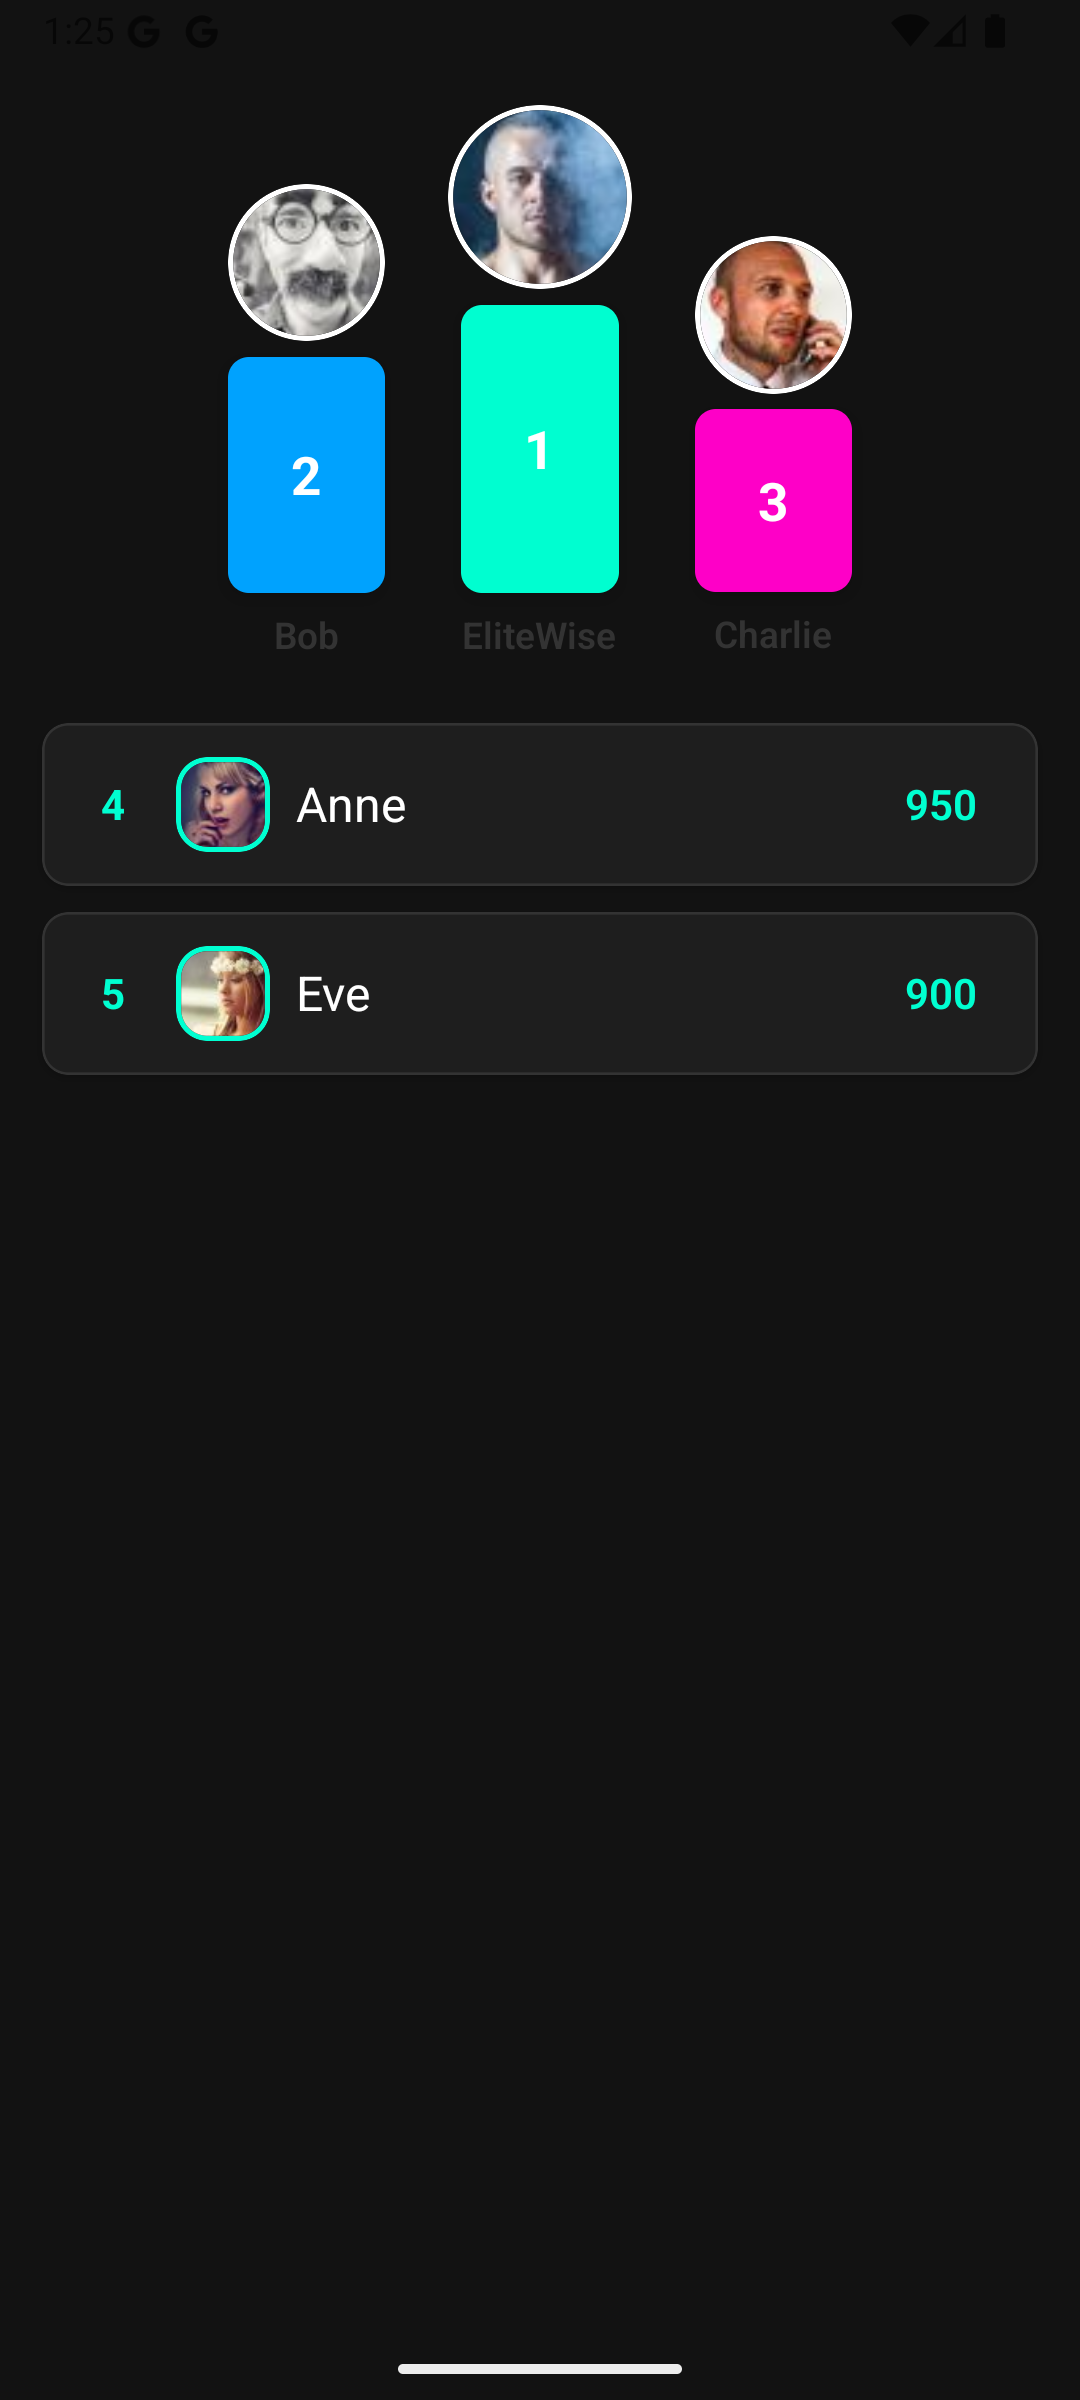
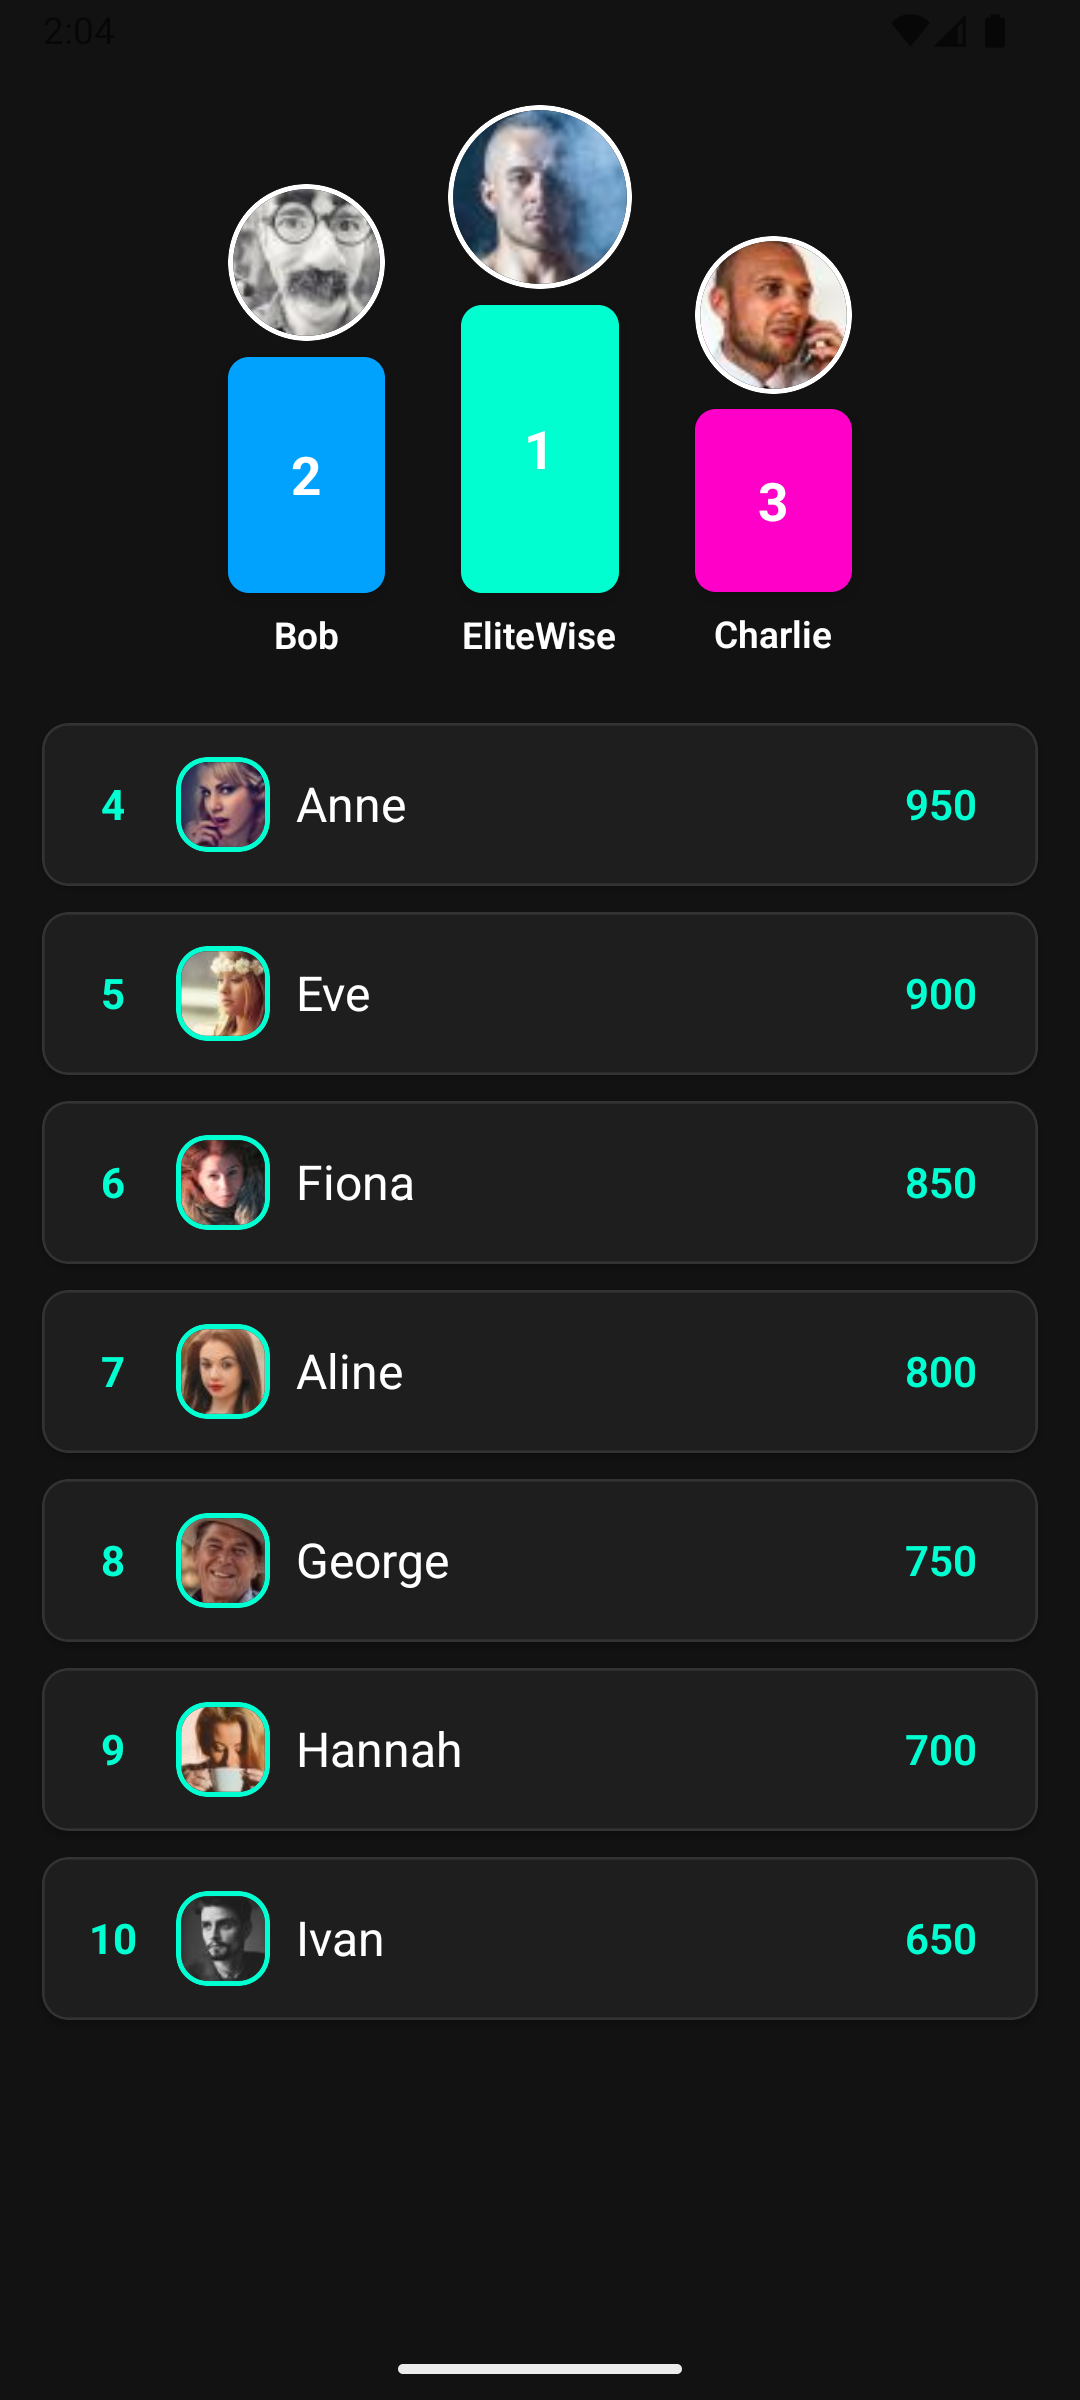
chore: update assets, readme & add clickable podiums

diff --git a/example/src/App.tsx b/example/src/App.tsx
@@ -1,12 +1,13 @@
 import { Leaderboard } from 'react-native-ranking-leaderboard';
 import type LeaderboardEntry from '../../src/leaderboard';
+import type { LeaderboardStyle } from '../../src/leaderboard';
 
 export default function App() {
   const data: LeaderboardEntry[] = [
     {
       rank: 1,
       name: 'EliteWise',
-      points: 100,
+      points: 1500,
       picture: 'https://i.pravatar.cc/60?img=3',
     },
     {
@@ -33,81 +34,113 @@ export default function App() {
       points: 900,
       picture: 'https://i.pravatar.cc/60?img=20',
     },
+    {
+      rank: 6,
+      name: 'Fiona',
+      points: 850,
+      picture: 'https://i.pravatar.cc/60?img=21',
+    },
+    {
+      rank: 7,
+      name: 'Aline',
+      points: 800,
+      picture: 'https://i.pravatar.cc/60?img=36',
+    },
+    {
+      rank: 8,
+      name: 'George',
+      points: 750,
+      picture: 'https://i.pravatar.cc/60?img=65',
+    },
+    {
+      rank: 9,
+      name: 'Hannah',
+      points: 700,
+      picture: 'https://i.pravatar.cc/60?img=24',
+    },
+    {
+      rank: 10,
+      name: 'Ivan',
+      points: 650,
+      picture: 'https://i.pravatar.cc/60?img=68',
+    },
   ];
+
+  const darkStyle = {
+    containerStyle: {
+      backgroundColor: '#121212',
+      paddingVertical: 40,
+    },
+    podiumStyle: {
+      first: { backgroundColor: '#00FFD1', height: 110 },
+      second: { backgroundColor: '#00A3FF', height: 90 },
+      third: { backgroundColor: '#FF00C8', height: 70 },
+    },
+    itemStyle: {
+      backgroundColor: '#1e1e1e',
+      borderColor: '#333',
+      borderWidth: 1,
+    },
+    rankStyle: {
+      color: '#00FFD1',
+      fontWeight: 'bold',
+      fontSize: 16,
+    },
+    usernameStyle: {
+      color: '#ffffff',
+      fontSize: 18,
+    },
+    pointStyle: {
+      color: '#00FFD1',
+      fontSize: 16,
+      fontWeight: '600',
+    },
+    avatarStyle: {
+      borderRadius: 12,
+      borderWidth: 2,
+      borderColor: '#00FFD1',
+    },
+    profileStyle: {
+      overlayStyle: {
+        backgroundColor: 'rgba(0, 0, 0, 0.85)',
+      },
+      modalStyle: {
+        backgroundColor: '#222',
+        borderRadius: 30,
+        padding: 32,
+      },
+      avatarStyle: {
+        borderRadius: 50,
+        borderWidth: 2,
+        borderColor: '#00FFD1',
+      },
+      nameStyle: {
+        color: '#ffffff',
+        fontSize: 22,
+      },
+      pointsStyle: {
+        color: '#00FFD1',
+        fontSize: 18,
+      },
+      closeButtonTextStyle: {
+        color: '#FF4D4D',
+        fontSize: 28,
+      },
+      closeButtonStyle: {
+        position: 'absolute',
+        top: 20,
+        right: 20,
+      },
+      pointsLabel: 'Score',
+      closeLabel: '×',
+    },
+  };
 
   return (
     <Leaderboard
       entries={data}
       showPodium={true}
-      style={{
-        containerStyle: {
-          backgroundColor: '#121212',
-          paddingVertical: 40,
-        },
-        podiumStyle: {
-          first: { backgroundColor: '#00FFD1', height: 110 },
-          second: { backgroundColor: '#00A3FF', height: 90 },
-          third: { backgroundColor: '#FF00C8', height: 70 },
-        },
-        itemStyle: {
-          backgroundColor: '#1e1e1e',
-          borderColor: '#333',
-          borderWidth: 1,
-        },
-        rankStyle: {
-          color: '#00FFD1',
-          fontWeight: 'bold',
-          fontSize: 16,
-        },
-        usernameStyle: {
-          color: '#ffffff',
-          fontSize: 18,
-        },
-        pointStyle: {
-          color: '#00FFD1',
-          fontSize: 16,
-          fontWeight: '600',
-        },
-        avatarStyle: {
-          borderRadius: 12,
-          borderWidth: 2,
-          borderColor: '#00FFD1',
-        },
-        profileStyle: {
-          overlayStyle: {
-            backgroundColor: 'rgba(0, 0, 0, 0.85)',
-          },
-          modalStyle: {
-            backgroundColor: '#222',
-            borderRadius: 30,
-            padding: 32,
-          },
-          avatarStyle: {
-            borderRadius: 50,
-            borderWidth: 2,
-            borderColor: '#00FFD1',
-          },
-          nameStyle: {
-            color: '#ffffff',
-            fontSize: 22,
-          },
-          pointsStyle: {
-            color: '#00FFD1',
-            fontSize: 18,
-          },
-          closeButtonTextStyle: {
-            color: '#FF4D4D',
-            fontSize: 28,
-          },
-          closeButtonStyle: {
-            position: 'absolute',
-            top: 20,
-            right: 20,
-          },
-          pointsLabel: 'Score',
-          closeLabel: '×',
-        },
-      }}
+      style={darkStyle as LeaderboardStyle}
     />
   );
 }

diff --git a/src/index.tsx b/src/index.tsx
@@ -47,7 +47,13 @@ export function Leaderboard({
         <View style={styles.podiumContainer}>
           {/* 2nd place */}
           {entries[1] && (
-            <View style={styles.podiumColumn}>
+            <TouchableOpacity
+              style={styles.podiumColumn}
+              onPress={() => {
+                setSelectedUser(entries[1] ?? null);
+                setModalVisible(true);
+              }}
+            >
               {entries[1]?.picture && (
                 <Image
                   source={{ uri: entries[1]?.picture || '' }}
@@ -64,12 +70,18 @@ export function Leaderboard({
                 <Text style={styles.podiumRank}>2</Text>
               </View>
               <Text style={styles.playerName}>{entries[1]?.name}</Text>
-            </View>
+            </TouchableOpacity>
           )}
 
           {/* 1st place */}
           {entries[0] && (
-            <View style={styles.podiumColumn}>
+            <TouchableOpacity
+              style={styles.podiumColumn}
+              onPress={() => {
+                setSelectedUser(entries[0] ?? null);
+                setModalVisible(true);
+              }}
+            >
               {entries[0]?.picture && (
                 <Image
                   source={{ uri: entries[0]?.picture || '' }}
@@ -86,12 +98,18 @@ export function Leaderboard({
                 <Text style={styles.podiumRank}>1</Text>
               </View>
               <Text style={styles.playerName}>{entries[0]?.name}</Text>
-            </View>
+            </TouchableOpacity>
           )}
 
           {/* 3rd place */}
           {entries[2] && (
-            <View style={styles.podiumColumn}>
+            <TouchableOpacity
+              style={styles.podiumColumn}
+              onPress={() => {
+                setSelectedUser(entries[2] ?? null);
+                setModalVisible(true);
+              }}
+            >
               {entries[2]?.picture && (
                 <Image
                   source={{ uri: entries[2]?.picture || '' }}
@@ -108,7 +126,7 @@ export function Leaderboard({
                 <Text style={styles.podiumRank}>3</Text>
               </View>
               <Text style={styles.playerName}>{entries[2]?.name}</Text>
-            </View>
+            </TouchableOpacity>
           )}
         </View>
       )}

diff --git a/README.md b/README.md
@@ -19,10 +19,10 @@ npm install react-native-ranking-leaderboard
 
 ## Preview
 
-| Image 1 | Image 2 | Image 3 |
-|---------|---------|---------|
-| ![Demo](./src/assets/leaderboard.gif) | ![default](./src/assets/default-style.png) | ![dark](./src/assets/dark-style.png) |
+![Demo](./src/assets/leaderboard.gif)
 
+|---------|---------|
+| ![default](./src/assets/default-style.png) | ![dark](./src/assets/dark-style.png) |
 
 ## How to use it?
 
